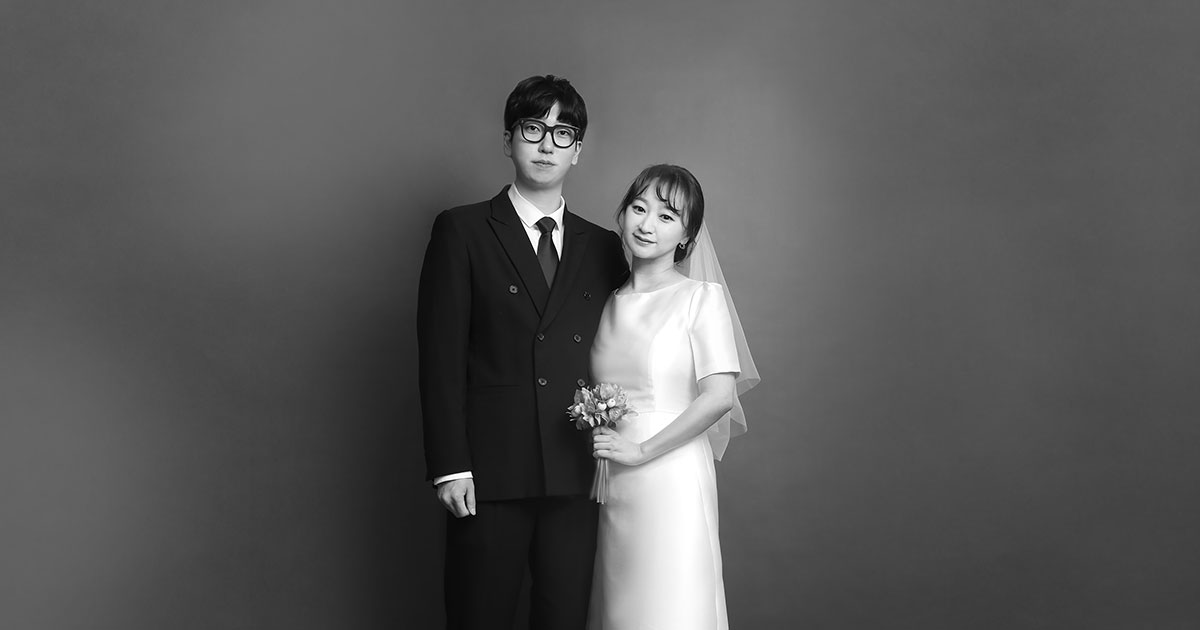
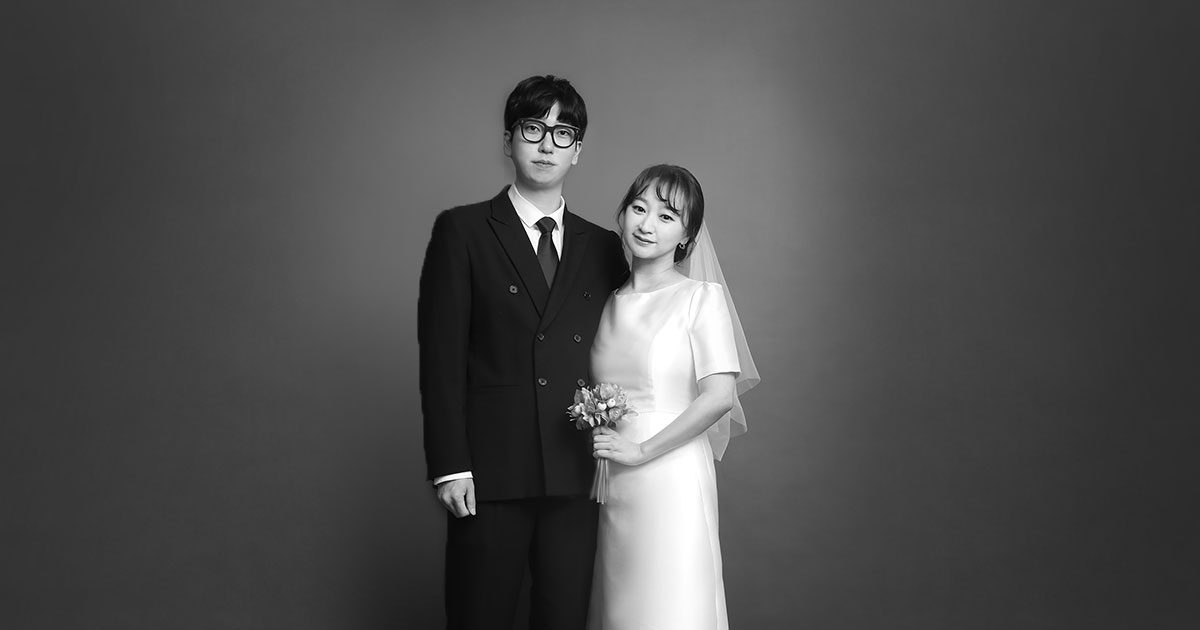
-메인, 썸네일 이미지 수정

Changed region(s): [[0.0, 0.0, 0.3083, 1.0], [0.8325, 0.0, 1.0, 0.7841], [0.2775, 0.2413, 0.4317, 0.7841]]

diff --git a/index.html b/index.html
@@ -9,7 +9,7 @@
     <meta name="viewport" content="width=device-width,initial-scale=1.0,maximum-scale=1.0,minimum-scale=1.0,user-scalable=0,target-densitydpi=medium-dpi" />
     <meta name="format-detection" content="telephone=no" />
     <meta property="og:type" content="website">
-    <meta property="og:image" content="https://glittering-sundae-b5c268.netlify.app/images/thum.jpg"> <!-- Link Image -->
+    <meta property="og:image" content="https://glittering-sundae-b5c268.netlify.app/images/thum?v1.jpg"> <!-- Link Image -->
     <meta property="og:title" content=""> <!-- Link Title -->
     <meta property="og:description" content=""> <!-- Link Text -->
     <meta property="og:url" content=""> <!-- Link URL -->
@@ -85,7 +85,7 @@
             <div class="">
               <div class="vertical-item photo main-img">
                 <!-- <img src="images/main_black.png" alt=""> -->
-                <img src="images/main_img_1.png?v0.3" alt="">
+                <img src="images/main_img_1.png?v0.1" alt="">
               </div>
               <div class="vertical-item info">
                 <!-- <p class="p1">
